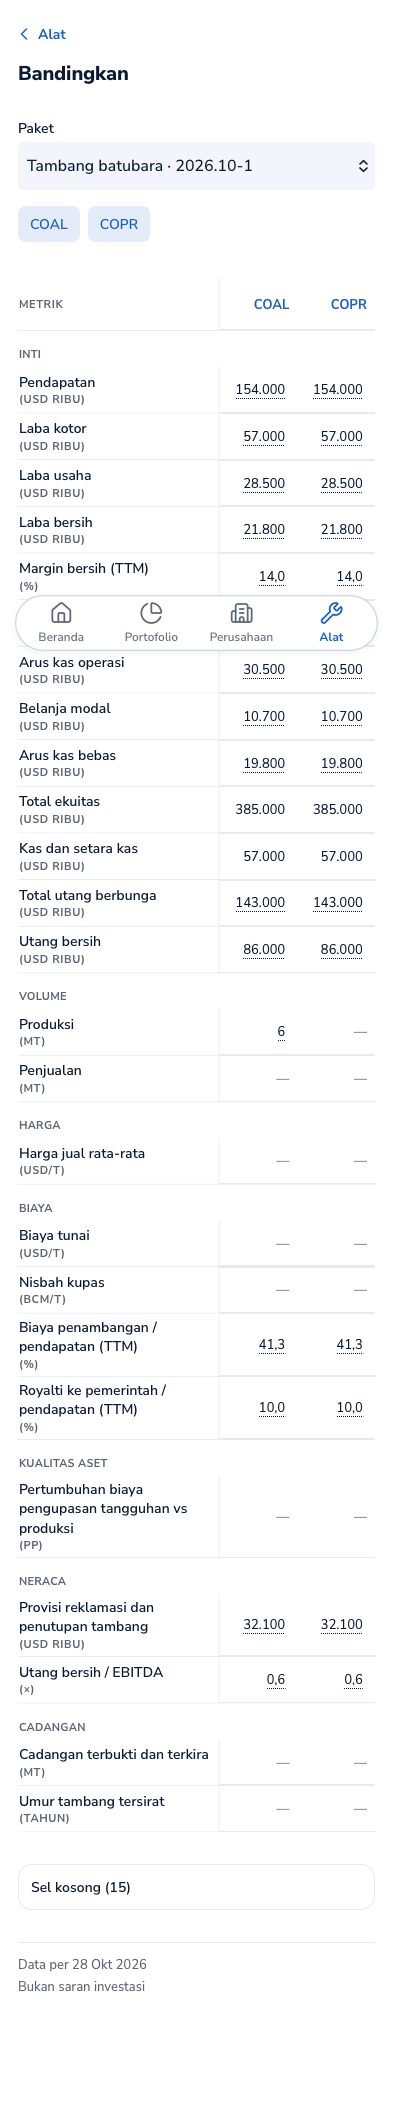
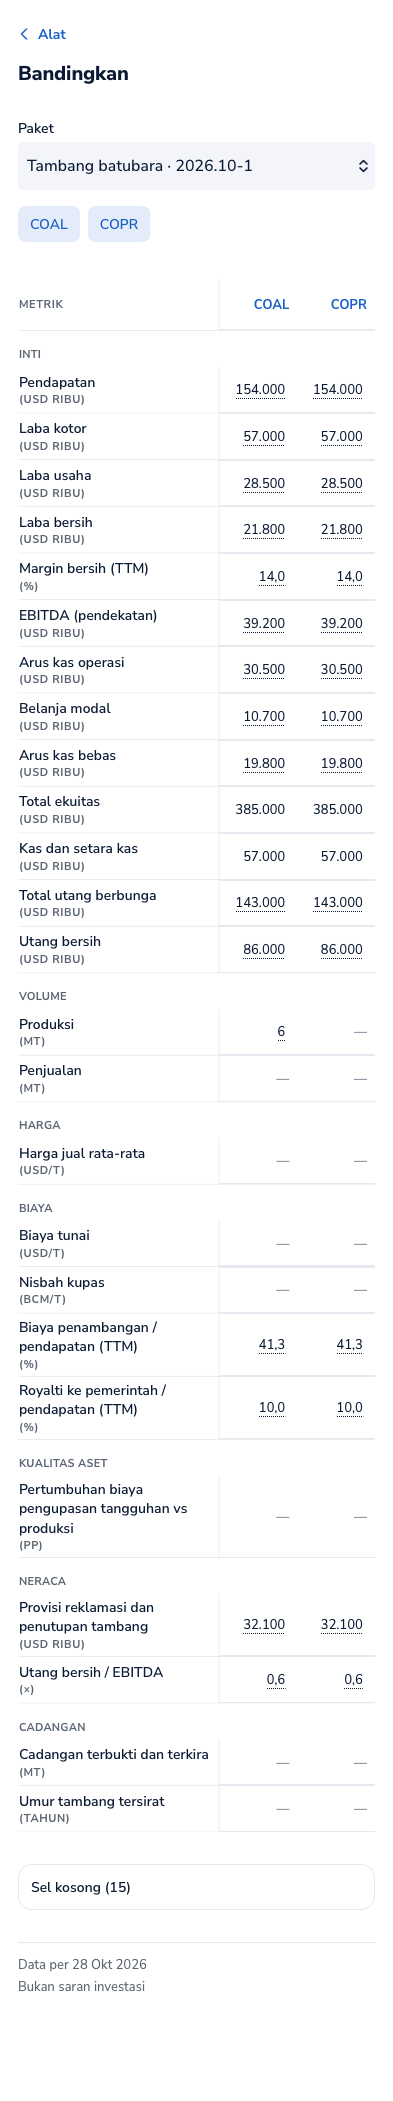
L3a: full-page screenshots without the frozen tab bar, plus a viewport shot with it (review F5)

diff --git a/web/e2e/beranda.e2e.ts b/web/e2e/beranda.e2e.ts
@@ -3,12 +3,13 @@ import { fileURLToPath } from "node:url";
 import { expect, test, type Page } from "@playwright/test";
 import { axeSeriousCritical, horizontalOverflow, smallTargets, textCollisions } from "./audits";
 import { mockApi, overrideApi } from "./mockApi";
+import { fullPageShot } from "./shots";
 
 /**
  * Beranda `#/beranda` (design.md §3.1; plan §3.3 e2e L3a): the Makro grid and the inbox sheets on the phone widths
  * 320 and 393 px, ported from finance-app's `macro.e2e.ts` and `overlays.e2e.ts`. Mocks only (mockApi.ts, D15); the
  * synthetic observations are built here from the shape of `e2e/fixtures/macro-observations.json`, not imported from `src/`.
- * Screenshots of the open inbox sheet and of the 200 % root font go to `docs/qa/l3a/`.
+ * Screenshots of the viewport with the tab bar, of the open inbox sheet and of the 200 % root font go to `docs/qa/l3a/`.
  */
 const SHOTS = fileURLToPath(new URL("../../docs/qa/l3a/", import.meta.url));
 mkdirSync(SHOTS, { recursive: true });
@@ -236,6 +237,12 @@ for (const width of WIDTHS) {
 test.describe("screenshots", () => {
   test.use({ viewport: { width: 393, height: 852 } });
 
+  test("Beranda viewport with the tab bar at the bottom edge", async ({ page }) => {
+    await openBeranda(page);
+    await expect(page.locator('nav[aria-label="Navigasi utama"]')).toBeVisible();
+    await page.screenshot({ path: `${SHOTS}beranda-tab-bar.png`, scale: "css" });
+  });
+
   test("Beranda with an inbox sheet open", async ({ page }) => {
     await openBeranda(page);
     await page.locator(`${INBOX} [data-event-id] button`).first().click();
@@ -249,7 +256,7 @@ test.describe("screenshots", () => {
     await page.addStyleTag({ content: "html{font-size:200% !important}" });
     await page.waitForTimeout(300);
     await audit(page);
-    await page.screenshot({ path: `${SHOTS}beranda-font200.png`, fullPage: true, scale: "css" });
+    await fullPageShot(page, `${SHOTS}beranda-font200.png`);
   });
 });
 

diff --git a/web/e2e/floor.e2e.ts b/web/e2e/floor.e2e.ts
@@ -3,11 +3,12 @@ import { fileURLToPath } from "node:url";
 import { expect, test, type Page } from "@playwright/test";
 import { axeSeriousCritical, horizontalOverflow, smallTargets, textCollisions } from "./audits";
 import { mockApi } from "./mockApi";
+import { fullPageShot } from "./shots";
 
 /**
  * The automated phone floor (D16, plan §3.2, §4 L2): every route of design.md §2.2 on the 393 px iPhone 15
  * emulation, with no page overflow, tap targets of at least 44 x 44 px and no serious or critical axe finding;
- * one screenshot per route under `docs/qa/<slice>/` (linked in the PR body, D17). The routes with a real screen also
+ * one screenshot per route under `docs/qa/<slice>/` (linked in the PR body, D17; full page, without the fixed tab bar). The routes with a real screen also
  * pass the text-collision audit and the whole floor again at a 200 % root font (design.md §6).
  * L3a owns this table (plan §3.3): each later lane edits only its own lines. `shot` is on for the routes whose screen
  * is real in this slice; the others are still placeholders (L3b, L3c) and take their screenshot in their own slice.
@@ -55,7 +56,7 @@ for (const { route, name, heading, shot } of ROUTES) {
     expect(unmocked, "jalur API yang diminta tetapi tidak ditiru").toEqual([]);
 
     if (!shot) return;
-    await page.screenshot({ path: `${SHOTS}${name}.png`, fullPage: true, scale: "css" });
+    await fullPageShot(page, `${SHOTS}${name}.png`);
     await page.addStyleTag({ content: FONT_200 });
     await page.waitForTimeout(300);
     await page.waitForLoadState("networkidle");

diff --git a/web/e2e/shots.ts b/web/e2e/shots.ts
@@ -1,0 +1,16 @@
+import type { Page } from "@playwright/test";
+
+/**
+ * Screenshot of the whole page. A full-page capture stitches the page into one tall image, and the `position: fixed`
+ * tab bar then freezes at the bottom of the first viewport, on top of whatever content sits there. Hiding the bar for
+ * the capture shows the content as it really lays out; a screenshot that must show the bar is a plain viewport
+ * screenshot, where the bar sits at the bottom edge as on the phone.
+ */
+export async function fullPageShot(page: Page, path: string) {
+  const hide = await page.addStyleTag({ content: 'nav[aria-label="Navigasi utama"]{display:none !important}' });
+  try {
+    await page.screenshot({ path, fullPage: true, scale: "css" });
+  } finally {
+    await hide.evaluate((el) => el.remove());
+  }
+}
